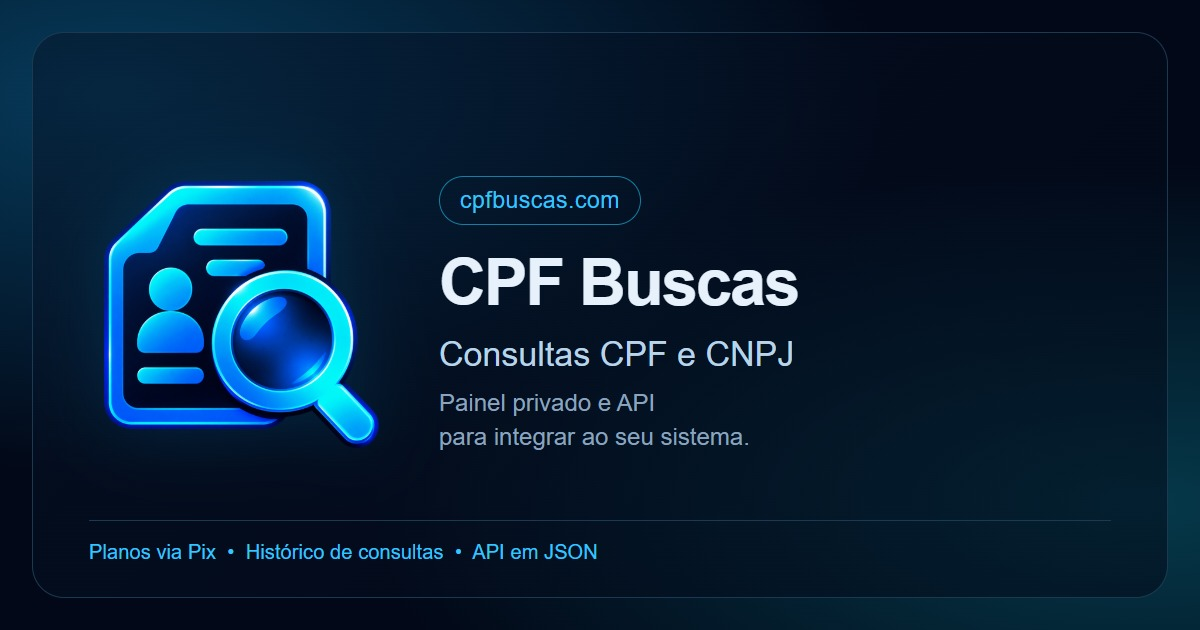
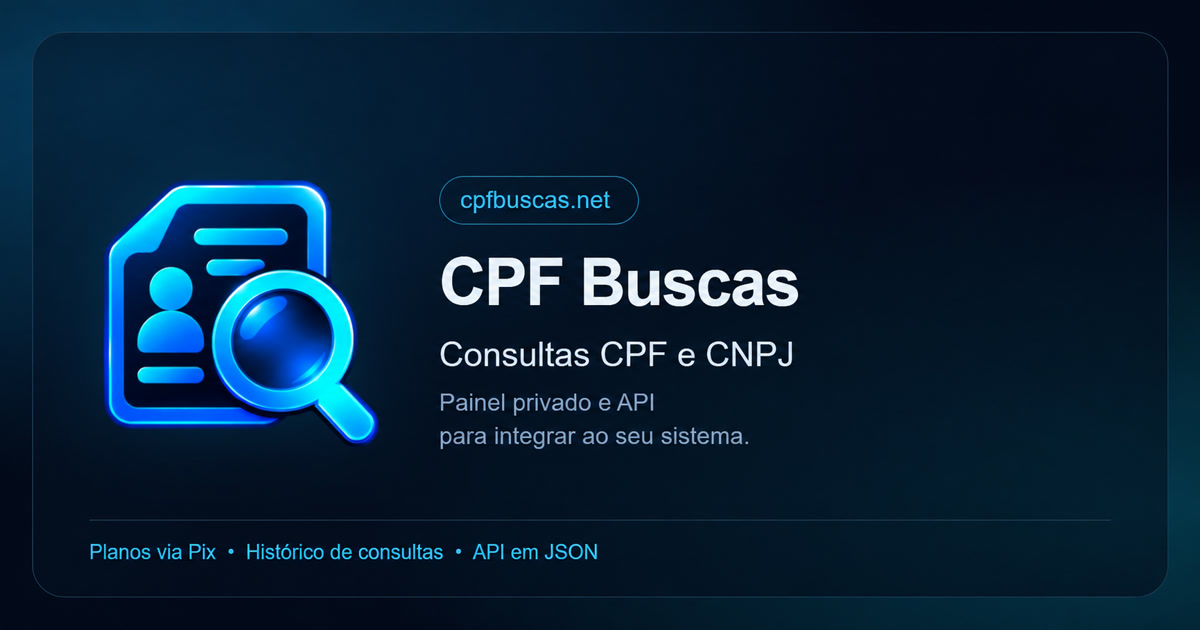
Atualiza domínio oficial para cpfbuscas.net

diff --git a/README.md b/README.md
@@ -2,20 +2,18 @@
 
 ![CPF Buscas](poster.jpg)
 
-# 🔎 CPF Buscas — cpfbuscas.com
+# 🔎 CPF Buscas — cpfbuscas.net
 
 ### Informação segura, em um só lugar.
 
-[![Site oficial](https://img.shields.io/badge/Site%20oficial-cpfbuscas.com-00D4FF?style=for-the-badge)](https://cpfbuscas.com/)
-[![Contingência](https://img.shields.io/badge/Backup-cpfbuscas.net-2EF2D0?style=for-the-badge)](https://cpfbuscas.net/)
-[![Documentação](https://img.shields.io/badge/Docs-API%20v1-FFD166?style=for-the-badge)](https://cpfbuscas.com/api-docs)
+[![Site oficial](https://img.shields.io/badge/Site%20oficial-cpfbuscas.net-00D4FF?style=for-the-badge)](https://cpfbuscas.net/)
+[![Documentação](https://img.shields.io/badge/Docs-API%20v1-FFD166?style=for-the-badge)](https://cpfbuscas.net/api-docs)
 
 </div>
 
 ---
 
-> **Endereço atualizado:** o domínio oficial agora é **[cpfbuscas.com](https://cpfbuscas.com/)** (com "s"). O antigo `cpfbusca.com` não é mais operado pela plataforma.
-> Domínio de contingência: **[cpfbuscas.net](https://cpfbuscas.net/)** — mesma conta, mesmo painel, mesma API e mesmas chaves.
+> **Endereço atualizado:** acesse **[cpfbuscas.net](https://cpfbuscas.net/)**.
 
 ## Sobre
 
@@ -34,15 +32,14 @@ O **CPF Buscas** é uma plataforma privada de consultas com **painel**, **histó
 
 | | |
 |---|---|
-| Base URL | `https://cpfbuscas.com/api/v1` |
-| Contingência | `https://cpfbuscas.net/api/v1` |
+| Base URL | `https://cpfbuscas.net/api/v1` |
 | Formato | `GET /api/v1/query/{endpoint}` + `Authorization: Bearer SUA_CHAVE` |
-| Catálogo público | https://cpfbuscas.com/api/v1/modules |
-| Documentação | https://cpfbuscas.com/api-docs |
+| Catálogo público | https://cpfbuscas.net/api/v1/modules |
+| Documentação | https://cpfbuscas.net/api-docs |
 
 ## Repositórios relacionados
 
-- 💻 Exemplos de integração com failover: [`cpfbusca-api-exemplos`](https://github.com/puxadascpf/cpfbusca-api-exemplos)
+- 💻 Exemplos de integração: [`cpfbusca-api-exemplos`](https://github.com/puxadascpf/cpfbusca-api-exemplos)
 - 🎬 Vídeo hero/motion do produto: [`cpfbusca-hero-motion`](https://github.com/puxadascpf/cpfbusca-hero-motion)
 
 ## Segurança e uso responsável
@@ -51,4 +48,4 @@ Sessões autenticadas, 2FA, logs de atividade e regras antiabuso. Utilize apenas
 
 ## Links oficiais
 
-👉 **https://cpfbuscas.com/** · Contingência: **https://cpfbuscas.net/** · Suporte: [WhatsApp](https://wa.me/5511940648946)
+👉 **https://cpfbuscas.net/** · Suporte: [WhatsApp](https://wa.me/5511940648946)
